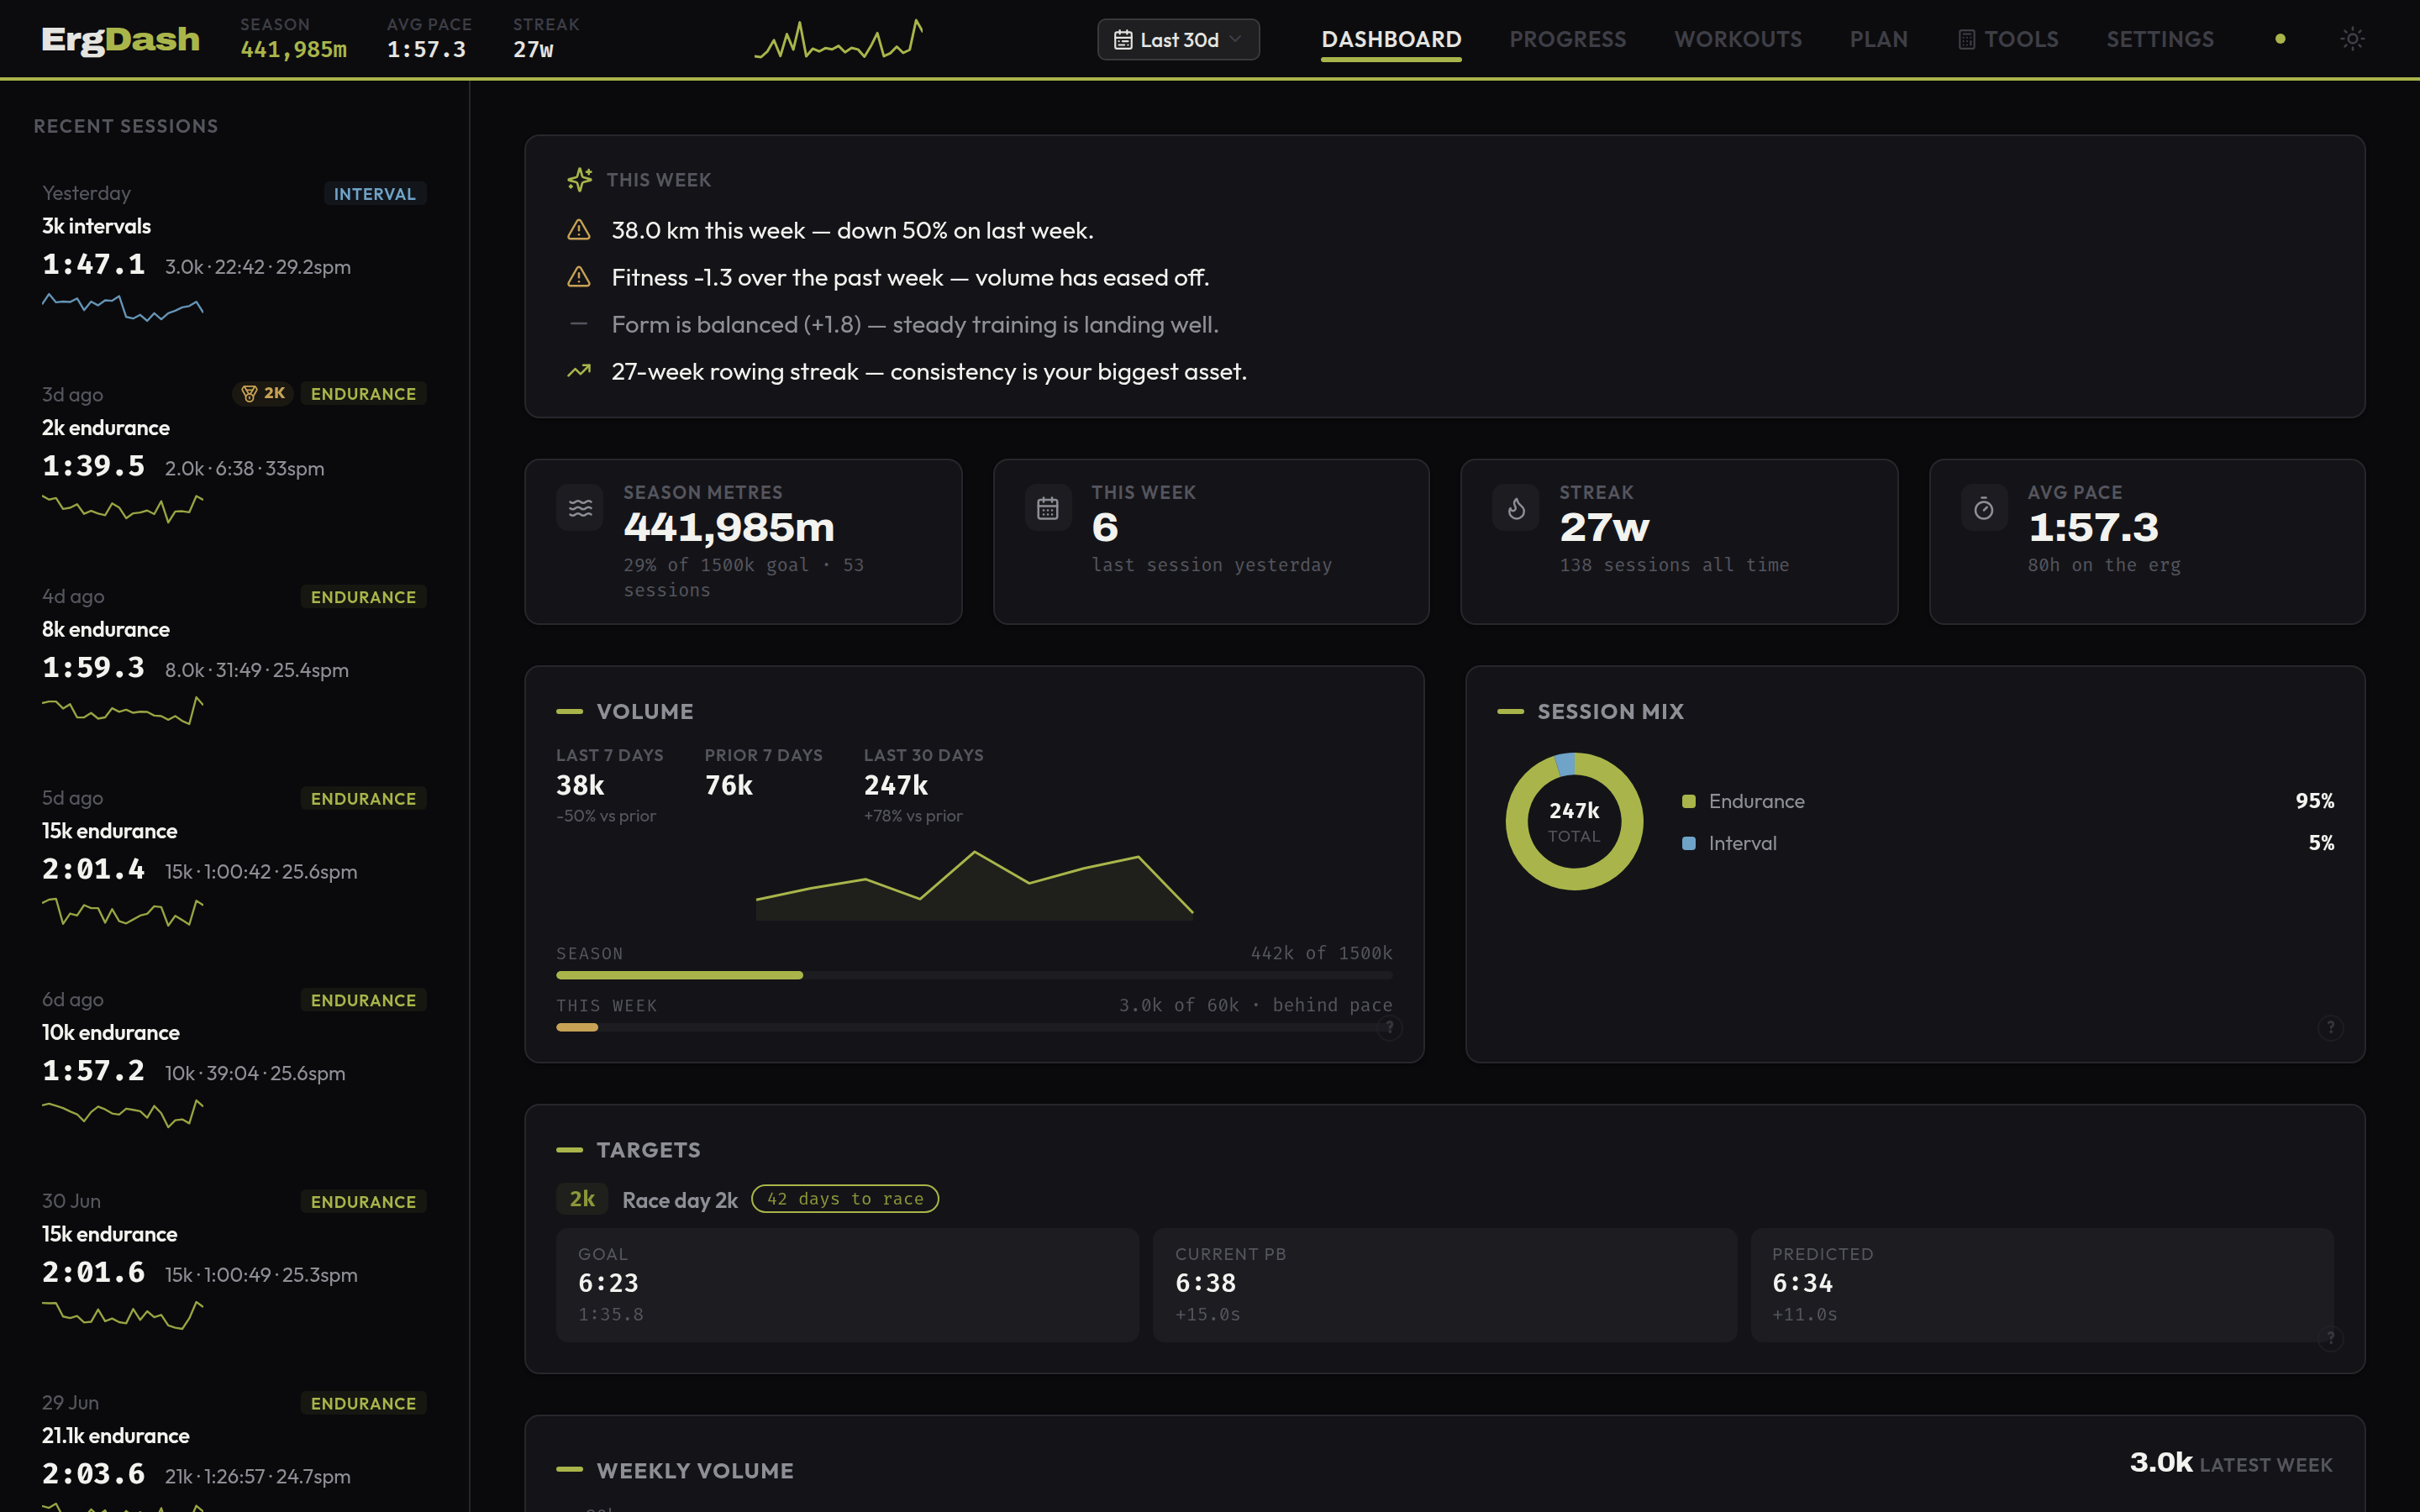
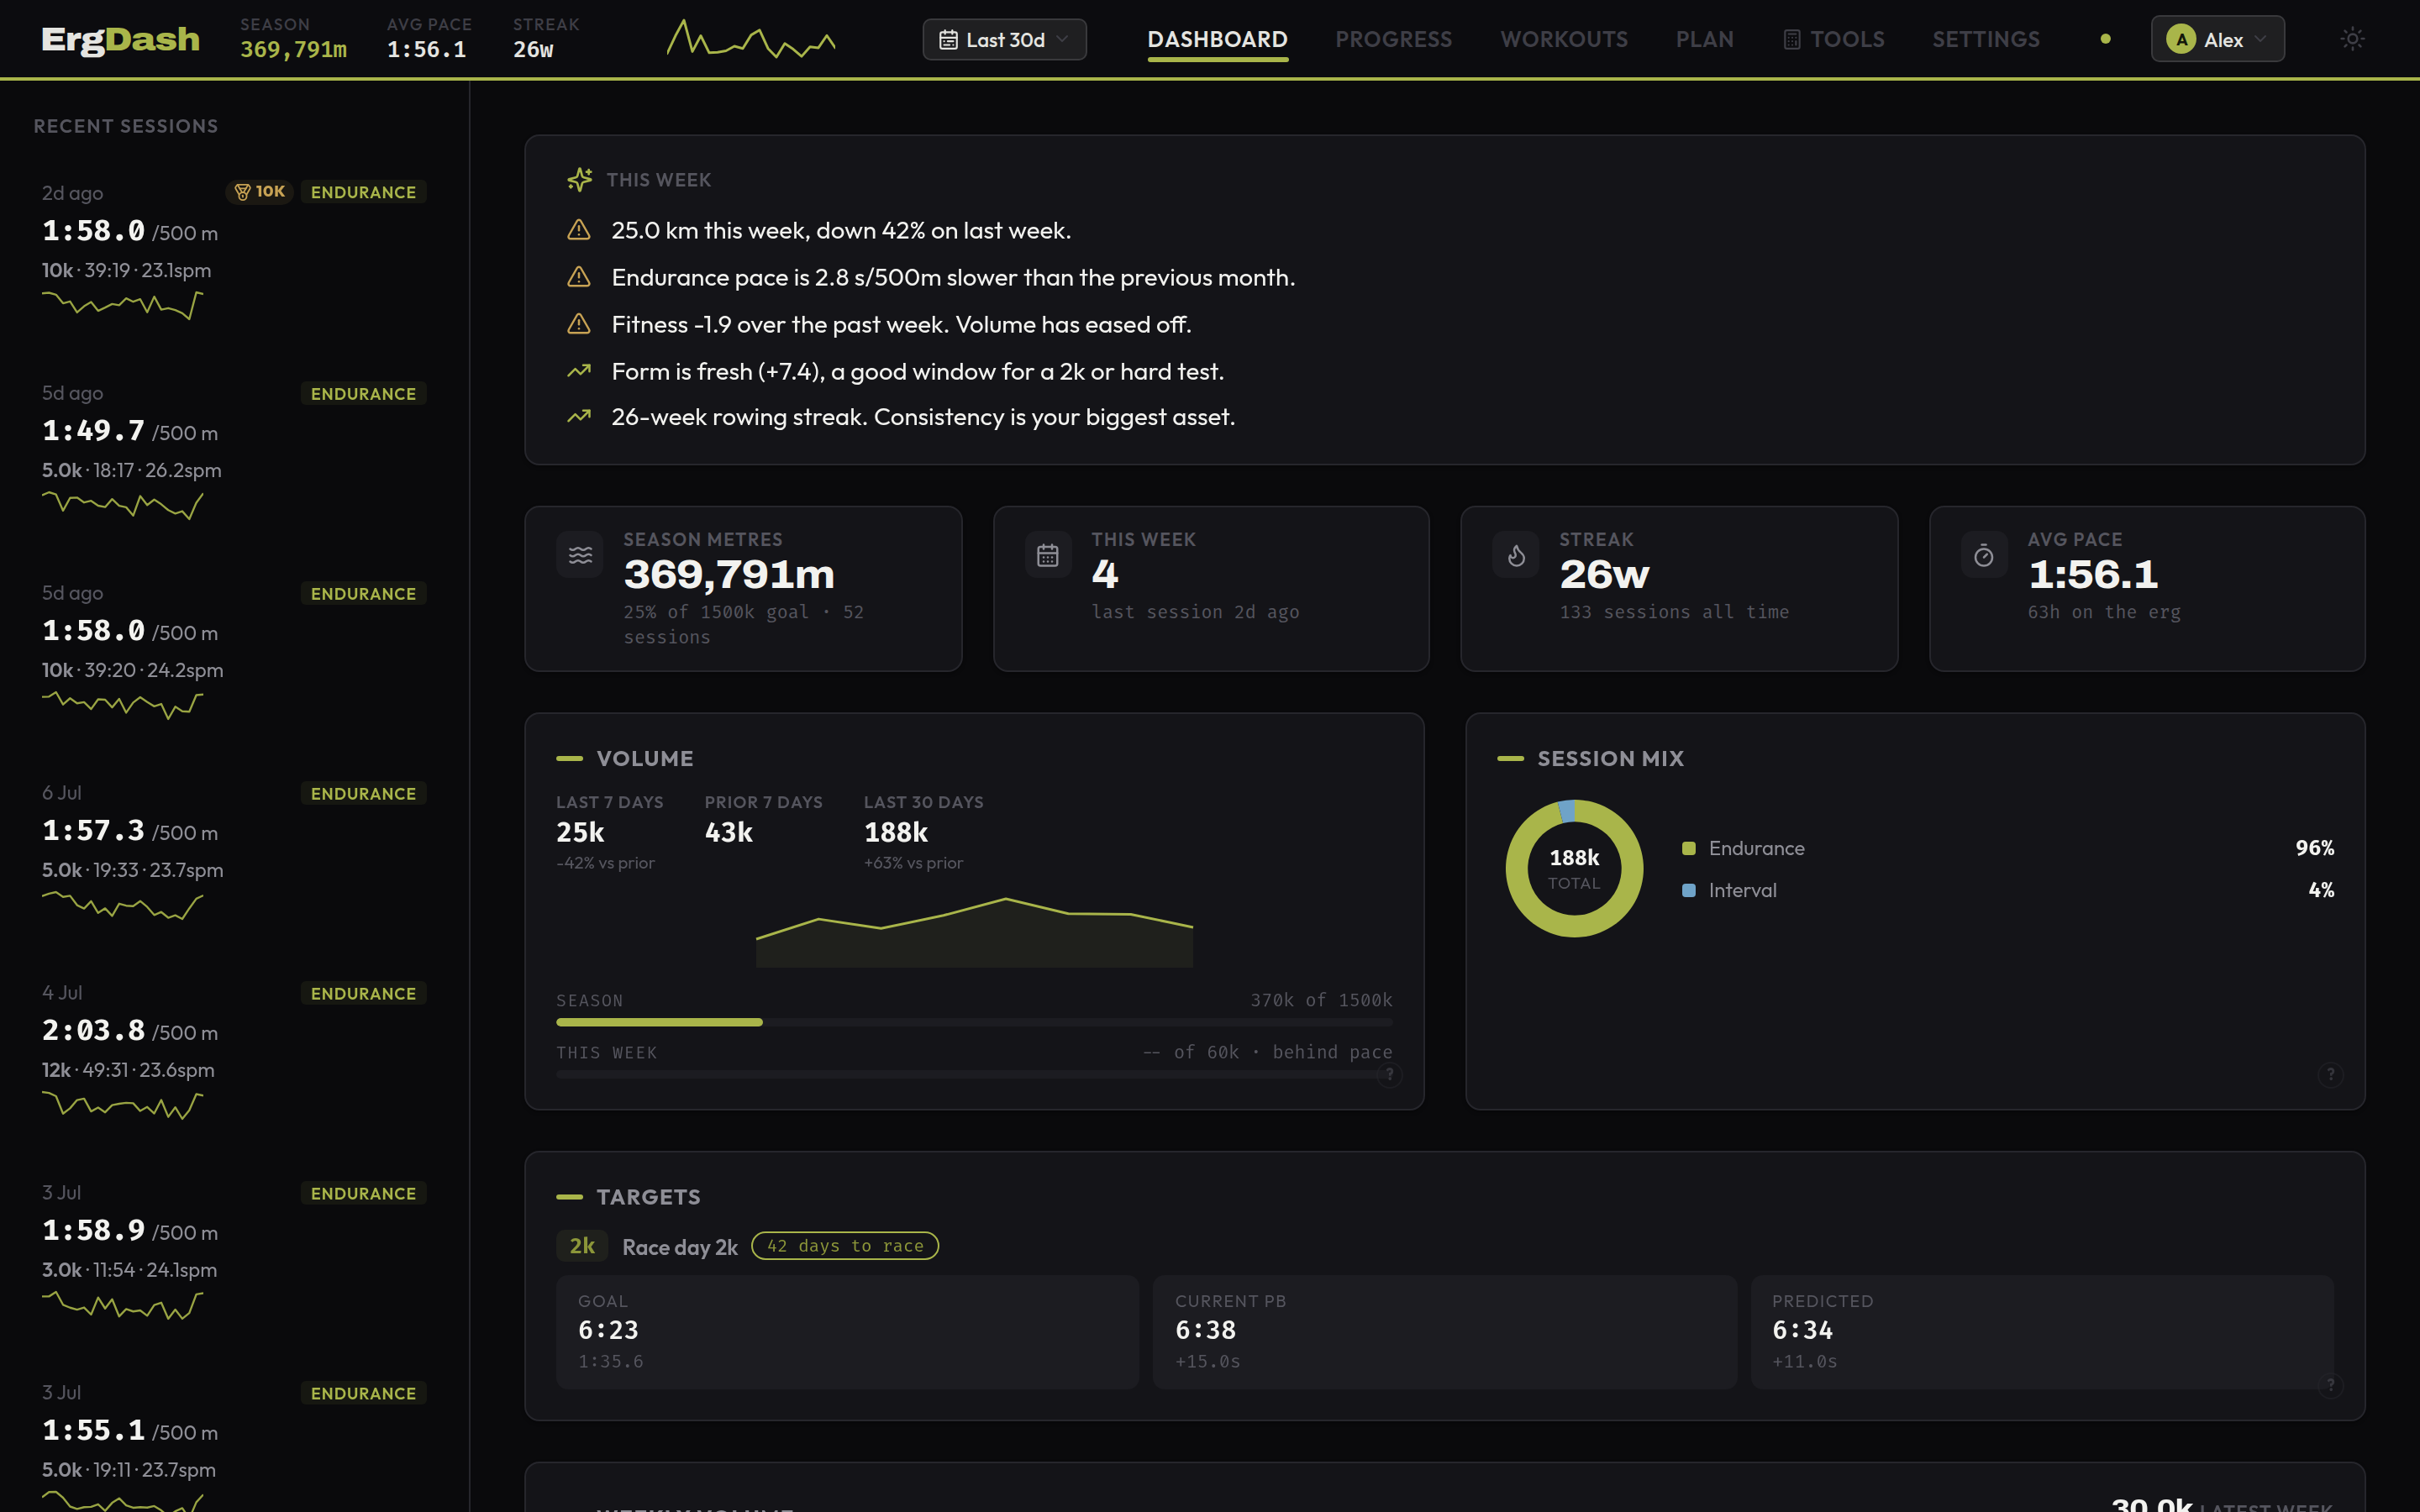
Refresh README screenshot and note interval summaries
The dashboard screenshot predated the header profile switcher and
recent UI changes; recapture it against seeded demo data at the same
2880x1800 dark-theme framing. Add brief mentions of the interval
structure summaries in the Session Detail and Feed bullets.

Claude-Session: https://claude.ai/code/session_01QJyT99Q8wy3fYJ1dbSgVMC

diff --git a/README.md b/README.md
@@ -14,7 +14,7 @@ ErgDash connects to the Concept2 Logbook API to sync your workout history and di
 
 - **Dashboard:** Weekly coach summary, season metres and streak stats, volume vs goal, weekly volume chart, personal bests with new-PB notifications, calendar heatmap
 - **Profiles (household):** Connect several Concept2 Logbook accounts to one instance, with one profile per household member, each with its own workouts, PBs, goals, plans, and settings. Switch profiles from the header; rename, reconnect, disconnect, or remove members in Settings. Existing single-user installs upgrade in place
-- **Session Detail:** Per-stroke pace and rate/HR charts, interval rep chart with HR recovery, rate-vs-pace scatter, HR zone bar, splits table, smart side-by-side comparison with ranked equivalent workouts and pacing diagnostics, downloadable session card, computed metrics (fade index, consistency, effort, distance per stroke, watts/beat, HR drift, rate discipline)
+- **Session Detail:** Per-stroke pace and rate/HR charts, interval rep chart with HR recovery and a structure summary (e.g. 6×500m / 1:30r), rate-vs-pace scatter, HR zone bar, splits table, smart side-by-side comparison with ranked equivalent workouts and pacing diagnostics, downloadable session card, computed metrics (fade index, consistency, effort, distance per stroke, watts/beat, HR drift, rate discipline)
 - **Workouts:** Filterable/sortable table with CSV/JSON export
 - **Manual entry & file import:** Add rows that never reached the Logbook (old PM3/PM4 pieces, club machines, races) by hand, including work/rest splits, or import CSV (Concept2 Logbook export or generic), TCX, and FIT (PM5 USB / ErgData) files with a preview step, duplicate detection against synced workouts, and enrich-merge that fills in missing HR/drag/splits/stroke data
 - **Result correction:** Edit distance/time/HR/drag/rate on any workout; corrections to synced workouts are tracked per-field, survive future syncs, and can be reverted to the Concept2 values at any time. Manual and imported workouts can be deleted
@@ -24,7 +24,7 @@ ErgDash connects to the Concept2 Logbook API to sync your workout history and di
 - **Tools:** Pace / watts / cal-per-hour converter, a Concept2 weight-adjusted score calculator, and a race plan builder with even, negative, and aggressive pacing strategies
 - **HR Zones:** Five configurable zones in Settings (% of max HR), estimated from observed data until set
 - **Body weight:** Optional setting that adds weight-adjusted equivalents to personal bests and Tools
-- **Feed:** Always-visible sidebar of recent sessions with sparklines
+- **Feed:** Always-visible sidebar of recent sessions with sparklines and interval summaries
 - **Ticker:** Sticky header with key stats, pace trace, profile switcher, and navigation
 - **Light/Dark theme:** System-aware with manual override
 - **Units:** Toggle between /500m pace, watts, and cal/hr